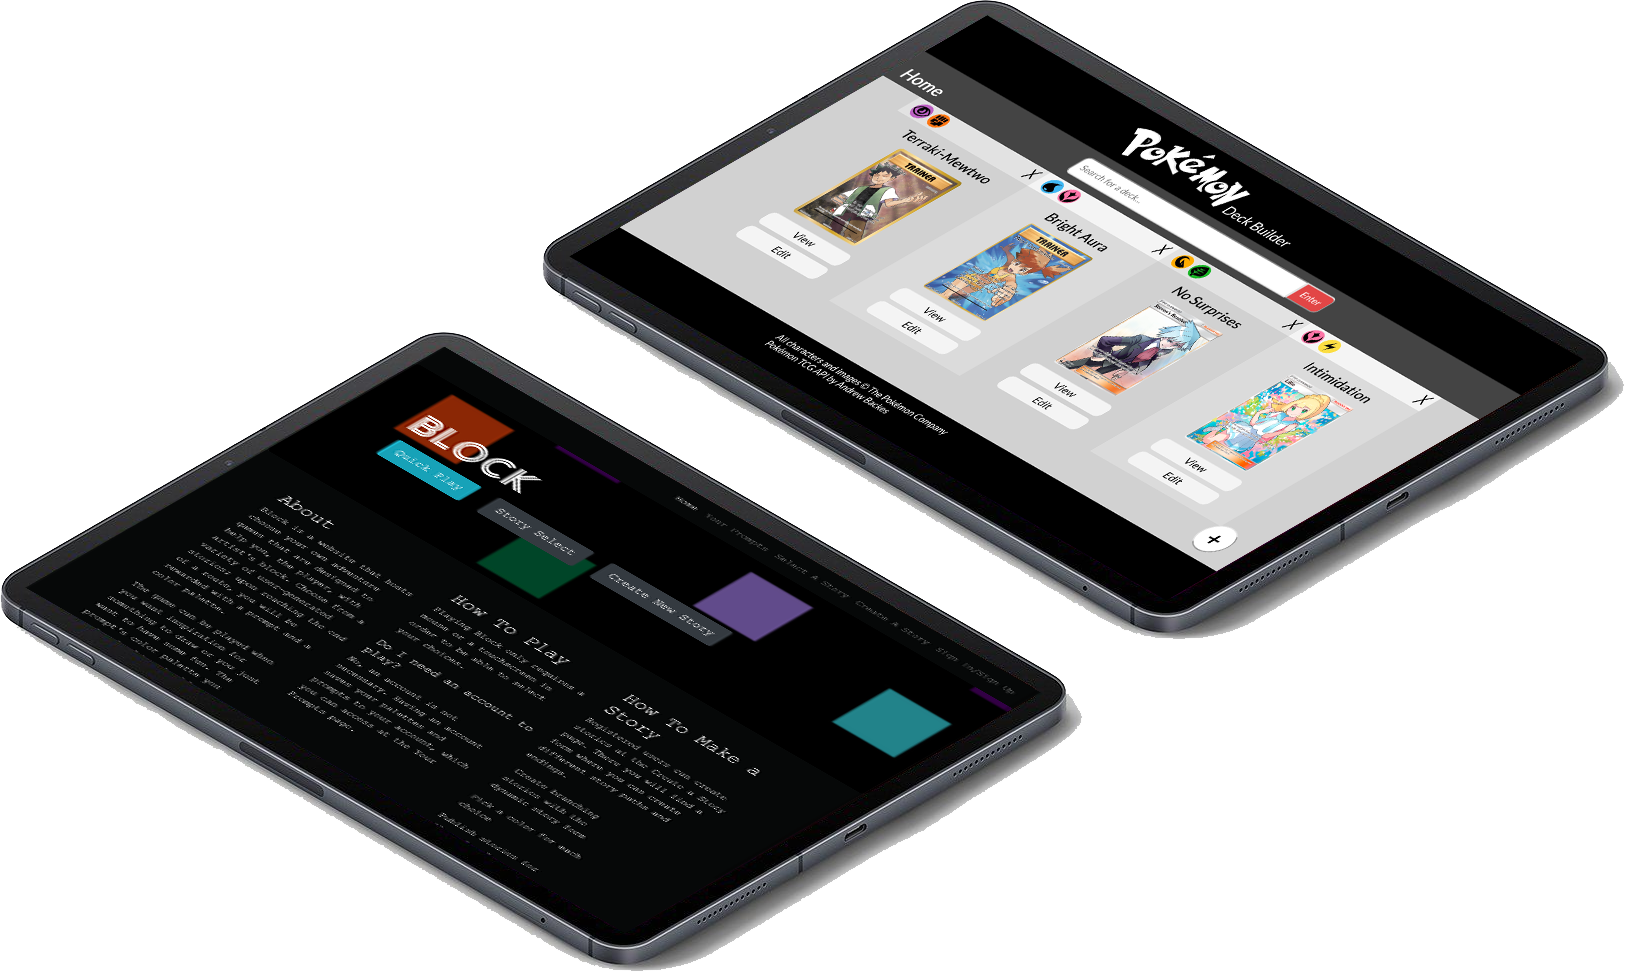
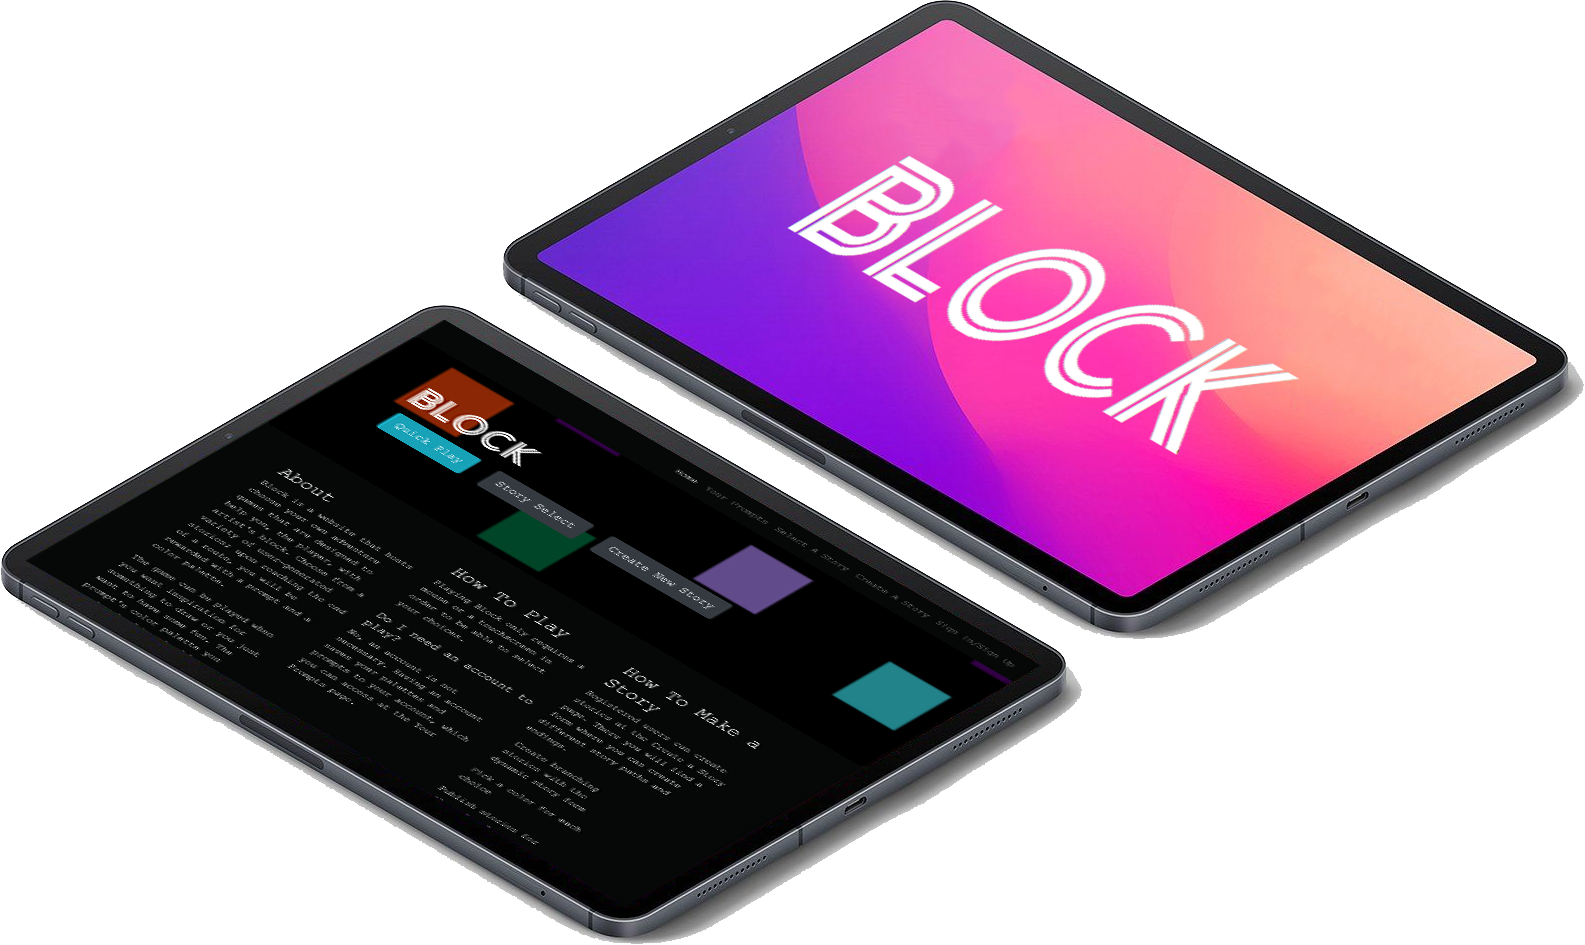
updated project block mockup

diff --git a/index.html b/index.html
@@ -43,7 +43,7 @@
           anxiety experienced by their users.
         </p>
         <p>
-          <a id="daa-bttn">View Case Study</a>
+          <a href="https://tylo-zane.github.io/daa/">View Here</a>
         </p>
       </div>
       <div class="panel-img">
@@ -52,13 +52,13 @@
     </div>
     <div class="panel" id="activity-manager">
       <div class="panel-desc">
-        <h2>Google Activity Manager</h2>
+        <h2>Physical Augmented Reality therapy</h2>
         <p>
-          Mitigates the deceptive design and unnecessary hurdles put into place by Google's 
-          My Activity tool.
+          PART is an assistive augmented reality application for physical therapy patients and 
+          practitioners. 
         </p>
         <p>
-          <a id="am-bttn">View Case Study</a>
+          <a href="">View Here</a>
         </p>
       </div>
       <div class="panel-img">
@@ -67,13 +67,13 @@
     </div>
     <div class="panel" id="misc">
       <div class="panel-desc">
-        <h2>Miscellaneous</h2>
+        <h2>Project Block</h2>
         <p>
-          Miscellaneous side projects, including an online choose-your-own adventure game and 
-          unofficial Pokemon Deck Builder.
+          Block is a choose-your-own adventure game with the goal of helping artists work through 
+          their artist's block.
         </p>
         <p>
-          <a id="misc-bttn">View Projects</a>
+          <a href="https://project-block-11.firebaseapp.com/">View Here</a>
         </p>
       </div>
       <div class="panel-img">
